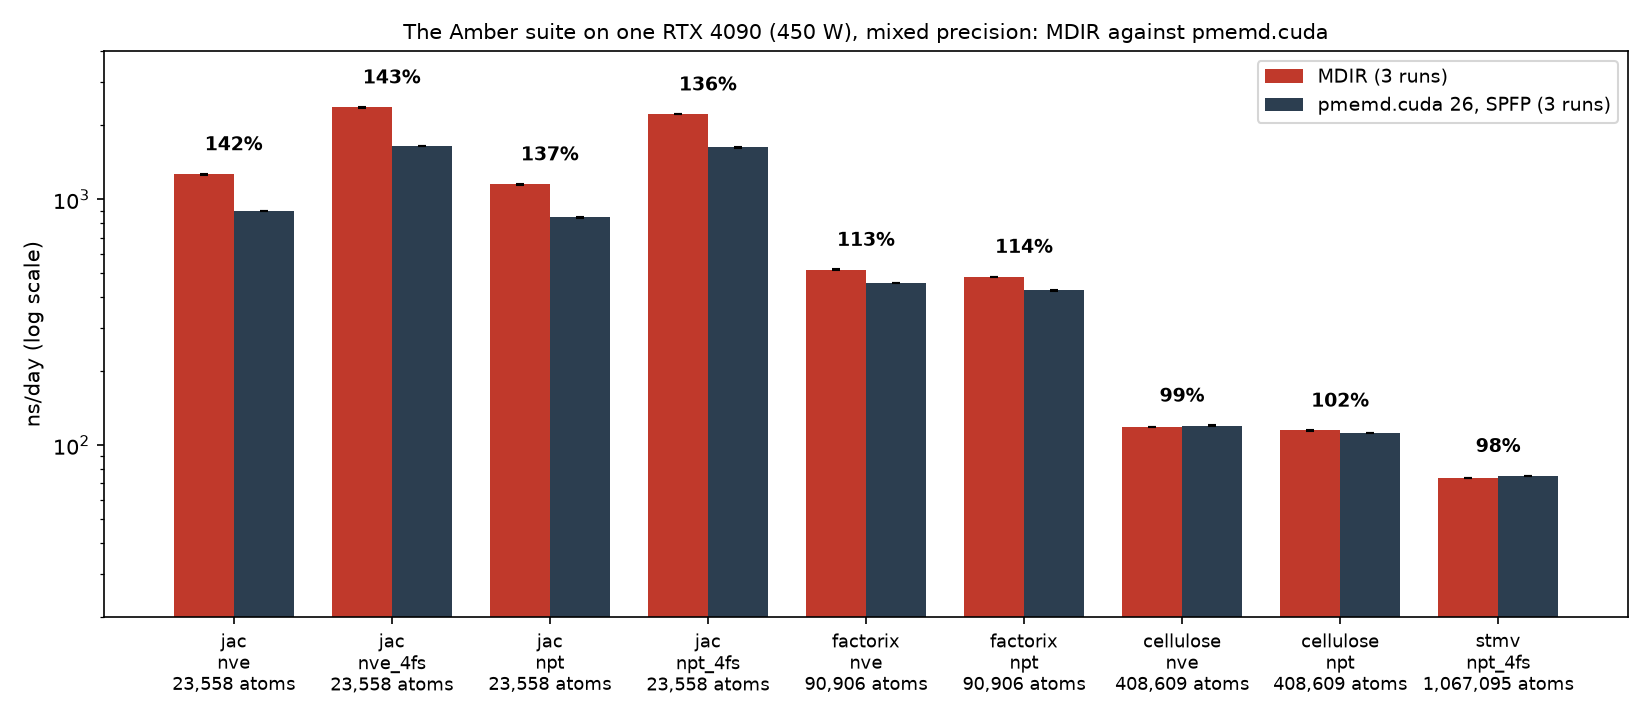
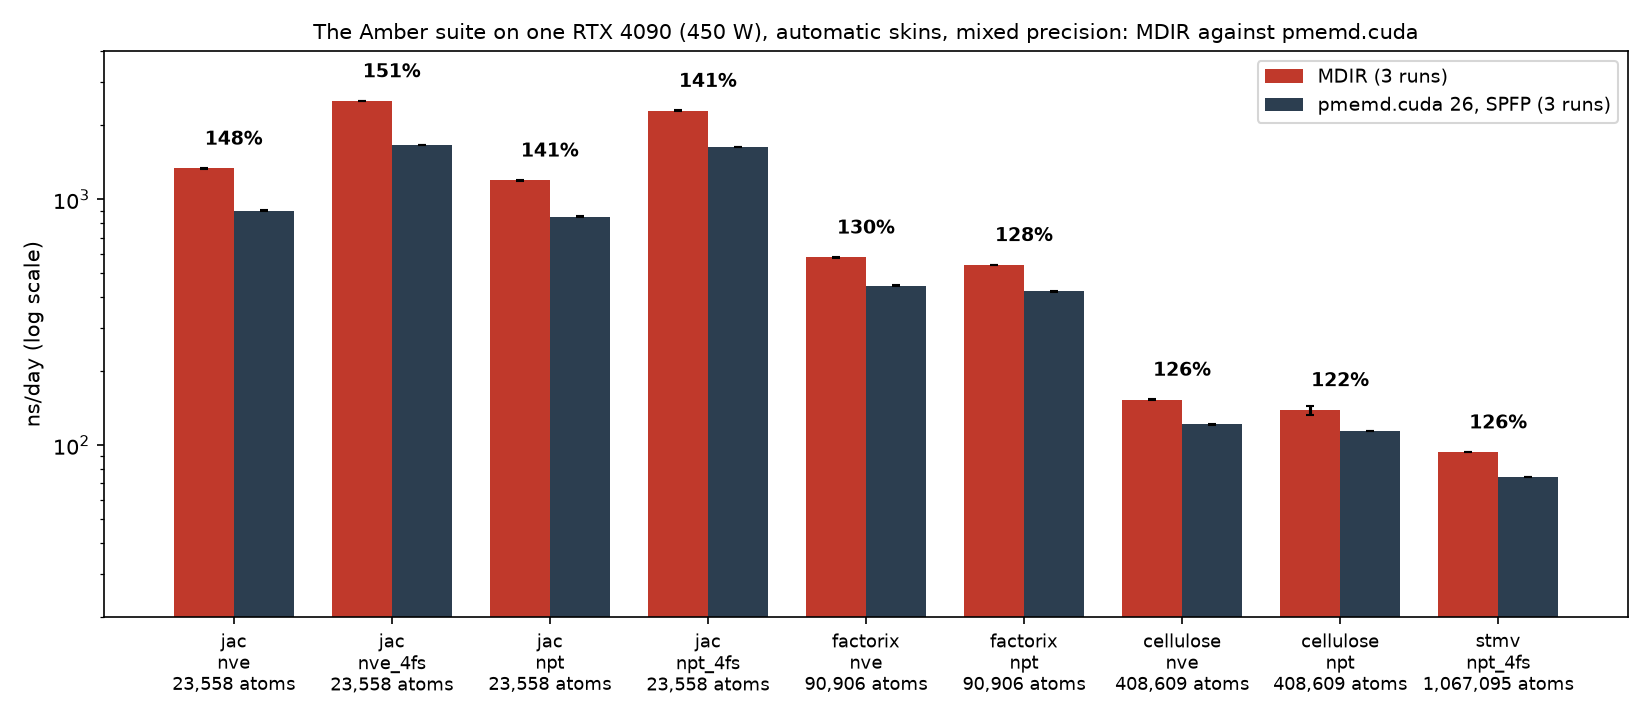
Paper: Table 10.2 and Figure 10.1 on main (D284) with the automatic skins (D281)
MDIR and pmemd.cuda 26 alternated, three repeats, in one job on one
RTX 4090 node; each system searched once with MDIR_SKIN_SEARCH=always
and every timed run took the cached reaches. 122% to 151% of
pmemd.cuda's rate, quoted in the README, the paper's README, and
Section 1. Table 10.3 sets the automatic skins beside those of the
grid of #405; the earlier measurements stay as history.

diff --git a/docs/paper/10-performance.md b/docs/paper/10-performance.md
@@ -6,28 +6,44 @@
 
 | Item | MDIR | pmemd.cuda |
 |---|---|---|
-| Program | `mdir` at D280, built with LLVM and MLIR 23.1.2, kernels loaded as cubins (D214) | pmemd.cuda of Amber 26, SPFP [[LeGrand2013]](references.md#legrand2013), built with CUDA 13 for the RTX 4090 |
-| Device | One NVIDIA RTX 4090 (450 W, driver 595.45.04) of a compute node, in a job of the cluster's scheduler that held the device alone (`gpu-run --idle`); other jobs ran on the node's other GPUs | The same |
+| Program | `mdir` at D284 (commit bfb73f96), built with LLVM and MLIR 23.1.2, kernels loaded as cubins (D214) | pmemd.cuda of Amber 26, SPFP [[LeGrand2013]](references.md#legrand2013), built with CUDA 13 for the RTX 4090 |
+| Device | One NVIDIA RTX 4090 (450 W, driver 595.45.04) of one compute node, on 2026-10-18, in one job of the cluster's scheduler that held the device alone (`gpu-run --idle`); other jobs ran on the node's other GPUs | The same |
 | Inputs | The systems of the Amber 24 GPU benchmark suite (PME), the topologies and restart files of the suite as they are (`prmtop`, `inpcrd`; two topologies are in the format before Amber 7, D133), with the settings of `scripts/benchmarks/amber/bench.py` | The inputs of the suite as they are (`mdin.GPU`, `prmtop`, `inpcrd`) |
 | Model | Cutoff 8 Å; PME with the $\beta$ of pmemd, $\mathrm{erfc}(\beta r_c)/r_c = 10^{-6}$ at constant energy and $10^{-5}$ at constant pressure (0.39467 and 0.34864 Å⁻¹), the grids of pmemd.cuda (64³; 144 × 84 × 80; 256 × 128 × 128; 224 × 224 × 240), order 4, and Amber's influence function (D134); SHAKE on the bonds of hydrogen and rigid water; the correction for the dispersion | The same, by the inputs |
 | Couplings (NPT) | Stochastic velocity rescaling [[Bussi2007]](references.md#bussi2007) and stochastic cell rescaling [[Bernetti2020]](references.md#bernetti2020), every 25 steps, $\tau_T$ = 1 ps, $\tau_P$ = 2 ps | Berendsen's thermostat [[Berendsen1984]](references.md#berendsen1984), $\tau$ = 10 ps; Monte Carlo barostat every 100 steps |
-| Neighbors | Groups of 16 (Section 4.4); dual list, outer reach 11 Å, inner 8.6 Å at 2 fs and 9.2 Å at 4 fs (Section 4.5) | Its own |
+| Neighbors | Neither `neighbor_structure` nor the reaches given: groups of 16 (Section 4.4) with a dual list (Section 4.5), as `AUTO` takes them from 23,000 particles (D261), and the reaches that a search of the run chose and cached for each system (`"AUTO"`, D281; Table 10.2) | Its own: a skin of 2 Å |
 | Precision | Mixed (Table 7.1), `fast_math` | SPFP |
 | Steps | JAC 10,000; FactorIX 4000; Cellulose 1000; STMV 500 | Those of `mdin.GPU`: JAC NVE 100,000, FactorIX NVE 20,000, Cellulose NVE 30,000, STMV 2000, … |
 | Rate | Over the second half of the run, past the compilation, the set-up, and the first build | Over all steps, as pmemd.cuda reports it; its rate over the steps after the first report differs by at most 0.5% |
 | Output | Energies twice; no trajectory | Energies and trajectory every 1000 or 2500 steps, as the inputs ask |
 
 The two programs ran one after the other on the same device, MDIR over
-the whole suite and then pmemd.cuda, three times
+the whole suite and then pmemd.cuda, three times, in one job
 (`scripts/paper/run-suite-repeats.sh`), from a frozen copy of the
 program. The benchmark script watches the device every two seconds
 during each run and marks the rate as no measurement if another process
 used it; no run of the repeats was marked. The ratio of a system is
 taken within each repeat and then averaged; ratios from different nodes
 of the cluster are not mixed, since the same program's rate differs
-between them by up to 3.5% (pmemd.cuda on Cellulose, #405). The table is made by
+between them by up to 6% (pmemd.cuda on Cellulose, 117.3 and 124.5 ns/day
+on two nodes, #405). The table is made by
 `scripts/paper/suite-table.py` and the figure by
 `scripts/paper/plot-suite.py`.
+
+**The skins.** The rates are those a user gets without setting the
+reaches of the lists. A run chooses them by measuring candidates (D281,
+Section 4.5) only where it is long, from $5 \times 10^{12}$ particles times
+steps, about five hours on this device; a shorter run takes the choice
+that an earlier run of the same key cached, else the defaults of D261
+(11 Å and an inner list at 8.6 Å, 9.2 Å at 4 fs). The suite's runs are
+far shorter, so before the repeats each system ran once, untimed, with
+`MDIR_SKIN_SEARCH=always`, which measured up to seven candidates and cached
+the choice; every timed run took its reaches from that cache, and its log
+says so. A run at the threshold affords fewer candidates, those whose
+compilation and steps fit within 2% of its time (three or more, else it
+keeps the defaults and caches nothing), so the cached choice is that of a
+run several times longer. The search took 94 to 274 s a system, and 877 s
+on STMV.
 
 ## 10.2 Rates
 
@@ -36,59 +52,103 @@ over three repeats. "Energy changed by" is the change of the total
 energy (NVE) or of the conserved energy $\tilde H$ (NPT, Section 6.5)
 between the first and the last row of MDIR's log, relative to its value. The counts are the mean
 number of steps between builds of the outer list and between prunings of
-the inner list. The rates, the changes of the energy, the counts, and the
-times of compilation are from the same three repeats, at D280 on an RTX
-4090, with the $\beta$, the grid, and the influence function of pmemd.cuda (Table 10.1).*
+the inner list. "Reaches" are the outer and inner reaches that the search
+chose and every timed run took from the cache. The rates, the changes of
+the energy, the counts, and the times of compilation are from the same
+three repeats, at D284 on one RTX 4090, with the $\beta$, the grid, and
+the influence function of pmemd.cuda (Table 10.1).*
 
-| System | Atoms | MDIR, ns/day | pmemd.cuda, ns/day | MDIR / pmemd.cuda | Energy changed by (MDIR) | Builds, prunings: every | Compiled in |
-|---|---|---|---|---|---|---|---|
-| `jac_nve` | 23,558 | 1269.0 ± 6.5 | 896.1 ± 1.7 | 141.6 ± 0.5% | 6.3e-05 to 1.3e-04 | 16.4, 2.8 | 6 s |
-| `jac_nve_4fs` | 23,558 | 2373.3 ± 9.2 | 1656.1 ± 0.9 | 143.3 ± 0.5% | 3.4e-03 to 3.6e-03 | 10.7, 3.5 | 6 s |
-| `jac_npt` | 23,558 | 1154.1 ± 5.5 | 845.2 ± 1.1 | 136.5 ± 0.5% | 3.8e-04 to 5.3e-04 | 16.4, 2.8 | 12 s |
-| `jac_npt_4fs` | 23,558 | 2221.6 ± 2.8 | 1630.6 ± 3.6 | 136.2 ± 0.3% | 1.1e-03 to 1.4e-03 | 12.9, 4.1 | 12 s |
-| `factorix_nve` | 90,906 | 518.0 ± 1.0 | 456.5 ± 1.2 | 113.5 ± 0.5% | 1.0e-05 to 1.9e-05 | 14.8, 2.7 | 6 s |
-| `factorix_npt` | 90,906 | 485.2 ± 0.2 | 426.6 ± 1.1 | 113.7 ± 0.3% | 2.8e-04 to 3.2e-04 | 14.8, 2.7 | 12 s |
-| `cellulose_nve` | 408,609 | 118.8 ± 0.2 | 120.3 ± 0.1 | 98.8 ± 0.2% | 6.4e-05 to 8.9e-05 | 13.4, 2.2 | 6 s |
-| `cellulose_npt` | 408,609 | 114.8 ± 0.2 | 112.2 ± 0.0 | 102.3 ± 0.2% | 1.5e-04 to 1.7e-04 | 13.4, 2.2 | 11 s |
-| `stmv_npt_4fs` | 1,067,095 | 73.8 ± 0.1 | 75.1 ± 0.2 | 98.3 ± 0.4% | 5.0e-05 to 9.8e-05 | 6.6, 2.1 | 12 s |
+| System | Atoms | MDIR, ns/day | pmemd.cuda, ns/day | MDIR / pmemd.cuda | Energy changed by (MDIR) | Builds, prunings: every | Compiled in | Reaches, Å |
+|---|---|---|---|---|---|---|---|---|
+| `jac_nve` | 23,558 | 1336.7 ± 5.7 | 900.5 ± 1.6 | 148.4 ± 0.6% | 7.7e-05 to 1.1e-04 | 69.0, 3.9 | 6–7 s | 14 / 8.9 |
+| `jac_nve_4fs` | 23,558 | 2514.1 ± 4.7 | 1663.4 ± 1.2 | 151.1 ± 0.4% | 3.3e-03 to 3.4e-03 | 31.0, 2.8 | 6–7 s | 14 / 8.8 |
+| `jac_npt` | 23,558 | 1196.1 ± 3.5 | 850.4 ± 4.1 | 140.6 ± 0.5% | 3.6e-04 to 5.1e-04 | 57.0, 4.2 | 12–13 s | 13.5 / 9 |
+| `jac_npt_4fs` | 23,558 | 2297.2 ± 11.7 | 1632.0 ± 2.7 | 140.8 ± 0.9% | 8.1e-04 to 1.1e-03 | 28.4, 2.8 | 12–13 s | 13 / 8.7 |
+| `factorix_nve` | 90,906 | 581.1 ± 1.3 | 446.4 ± 0.4 | 130.2 ± 0.3% | 5.1e-06 to 1.4e-05 | 14.8, 2.7 | 6 s | 11 / 8.6 |
+| `factorix_npt` | 90,906 | 541.7 ± 1.5 | 422.2 ± 1.2 | 128.3 ± 0.2% | 2.9e-04 to 3.0e-04 | 14.8, 2.7 | 12 s | 11 / 8.6 |
+| `cellulose_nve` | 408,609 | 153.4 ± 0.2 | 121.6 ± 0.2 | 126.2 ± 0.3% | 5.1e-05 to 5.2e-05 | 17.3, 1.9 | 6 s | 11.5 / 8.45 |
+| `cellulose_npt` | 408,609 | 139.2 ± 5.9 | 113.9 ± 0.1 | 122.2 ± 5.2% | 1.6e-04 to 1.8e-04 | 13.5, 2.2 | 11 s | 11 / 8.6 |
+| `stmv_npt_4fs` | 1,067,095 | 93.7 ± 0.1 | 74.3 ± 0.2 | 126.0 ± 0.4% | 2.2e-05 to 9.2e-05 | 13.5, 1.9 | 12–13 s | 12.5 / 8.8 |
 
 ![Rates of MDIR and pmemd.cuda over the Amber suite](figures/suite.png)
 
 *Figure 10.1. The rates of Table 10.2 on a logarithmic scale, with the
 ratio of the means above each pair.*
 
-On this device MDIR's rate is 136% to 143% of pmemd.cuda's on JAC, 114%
-on Factor IX, 99% and 102% on Cellulose at constant energy and pressure,
-and 98% on STMV. The ratio falls with the size of the system:
+On this device MDIR's rate is 141% to 151% of pmemd.cuda's on JAC, 128%
+and 130% on Factor IX, 126% and 122% on Cellulose at constant energy and
+pressure, and 126% on STMV. The 122% of Cellulose at constant pressure
+holds one slow repeat: its second run took 1.305 ms a step over the
+second half against 1.212 ms in the first and the third, with the same
+reaches and the same counts of builds and prunings (76 and 454 against 74
+to 75 and 451 to 456), and no other process on the device; the other two
+repeats give 125.3%. The ratio falls with the size of the system:
 
-- **JAC** (23,558 atoms; a step of about 136 µs at 2 fs). A step of this
+- **JAC** (23,558 atoms; a step of about 129 µs at 2 fs). A step of this
   size has few warps of work per kernel and many kernels, so what the
   host and the launches cost matters as much as the arithmetic. The
   integration kernel (Section 8.2) does in one launch what took three,
   the flags of the tests reach the host without waiting for the stream
-  (Section 8.3), and the dual list keeps an inner list of reach 8.6 Å,
-  pruned every 2.8 steps, under an outer list of 11 Å built every 16, so
-  the loop over pairs reads the pairs within 8.6 Å rather than within
-  the 10 Å of one list (Section 4.5).
+  (Section 8.3), and the dual list keeps an inner list of reach 8.9 Å,
+  pruned every 3.9 steps, under an outer list of 14 Å built every 69, so
+  the loop over pairs reads the pairs within 8.9 Å and the builds, which
+  cost a fixed time of launches each, are rare (Section 4.5). The search
+  chose a long outer skin on all four JAC inputs, 2.3% to 3.8% faster
+  than the defaults in its own measurement.
+- **Factor IX** (90,906 atoms). No candidate gained beyond the noise of
+  the search (0.5% and 0.6%, within 1.7% and 2.3%), and both runs kept
+  the defaults, 11 / 8.6 Å.
 - **Cellulose** (408,609 atoms) and **STMV** at 4 fs (1,067,095 atoms).
   The device is busy nearly the whole step (Table 8.2, measured on an
   RTX 3090), and the loop over pairs and PME take most of it. The rate
   rests on the arithmetic and the memory traffic of those kernels: each
-  pair once, tables of the radial functions (Section 7.2), the bricks of
-  the spreading (Section 5.3). STMV builds its outer list every 6.6 steps
-  and prunes every 2.1. The settings of the lists (Table 10.1) were
-  chosen on an RTX 3090 and are the same for every system; whether other
-  settings, or the kernels themselves, account for the 1 to 2% on these
-  two systems is not separated by these measurements.
+  pair once, tables of the radial functions (Section 7.2), the tiles of
+  the spreading (Section 5.3), and, from 4096 groups, the pruning inside
+  the loop over pairs (D284, Section 4.5). The search chose 11.5 / 8.45 Å
+  for Cellulose at constant energy (1.7% faster than the defaults) and
+  12.5 / 8.8 Å for STMV (5.7%); at constant pressure on Cellulose the
+  fastest candidate, 11.5 / 8.65 Å, gained 1.0%, within the noise of
+  1.6%, and the run kept the defaults.
 
-**An earlier measurement.** At D134 on an RTX 3090 capped at 300 W, with
-the same inputs and settings, the ratios were 131.5% on JAC at constant
+**With the skins of a grid.** On the same commit, on another RTX 4090
+node, the skins of each system taken from the grid of #406 gave the rates
+of Table 10.3 (#405). With the automatic skins MDIR's rate is 0.5% to 2.4%
+higher on eight systems and 1.5% lower on Cellulose at constant pressure
+(142.6 ns/day in its two regular repeats; 3.8% with the slow one), where
+the search kept the defaults; MDIR's own rate differs between RTX 4090
+nodes by about 1% (#405), so these differences are of the order of the
+node. The ratios differ by up to 4 points, and by 9 on Cellulose at
+constant pressure, mostly because pmemd.cuda's rate differs between the
+two nodes (Cellulose NVE 117.3 there against 121.6 ns/day here), which is
+why the ratios of Table 10.2 come from one job on one node.
+
+*Table 10.3. MDIR with the skins of the grid of #406 (another RTX 4090
+node, same commit, three repeats, #405) against the automatic skins of
+Table 10.2; ns/day, and the ratio to pmemd.cuda in the same job.*
+
+| System | Grid's skins, Å | MDIR, grid | MDIR, automatic | / pmemd.cuda, grid | / pmemd.cuda, automatic |
+|---|---|---|---|---|---|
+| `jac_nve` | 14 / 8.8 | 1312.8 | 1336.7 | 147.5% | 148.4% |
+| `jac_nve_4fs` | 14 / 9.2 | 2455.1 | 2514.1 | 149.4% | 151.1% |
+| `jac_npt` | 14 / 8.8 | 1173.7 | 1196.1 | 139.5% | 140.6% |
+| `jac_npt_4fs` | 14 / 9.2 | 2277.7 | 2297.2 | 140.7% | 140.8% |
+| `factorix_nve` | 12.5 / 8.6 | 574.5 | 581.1 | 126.8% | 130.2% |
+| `factorix_npt` | 12.5 / 8.6 | 535.4 | 541.7 | 126.0% | 128.3% |
+| `cellulose_nve` | 11.5 / 8.45 | 152.6 | 153.4 | 130.1% | 126.2% |
+| `cellulose_npt` | 11.5 / 8.45 | 144.7 | 139.2 | 131.4% | 122.2% |
+| `stmv_npt_4fs` | 12.5 / 8.9 | 92.4 | 93.7 | 124.2% | 126.0% |
+
+**Earlier measurements.** At D280, on an RTX 4090 with the skins fixed at
+3 Å and 0.6 Å at 2 fs for every system, the ratios were 136% to 143% on
+JAC, 114% on Factor IX, 99% and 102% on Cellulose, and 98% on STMV; the
+tiles of the spreading (D282), the sums of the tuple kernel by blocks
+(D283), the pruning in the loop over pairs (D284), and the skins chosen
+for each system (D281) are between that measurement and this one. At
+D134 on an RTX 3090 capped at 300 W, with the same inputs and the fixed
+skins, the ratios were 131.5% on JAC at constant
 energy, 110.0% on Factor IX, 104.4% and 105.3% on Cellulose, and 111.0% on
 STMV, which completed the first milestone's target of at least
-pmemd.cuda's rate on every system of the suite (D114). From that
-measurement to this one, on the newer device and with MDIR's changes up to
-D280, pmemd.cuda's rate grew by a factor of 1.4 on JAC to 2.0 on STMV, and
-MDIR's by 1.6 to 1.9: the large systems gained more with pmemd.cuda.
+pmemd.cuda's rate on every system of the suite (D114).
 
 ## 10.3 Energy in the measured runs
 

diff --git a/docs/paper/README.md b/docs/paper/README.md
@@ -17,7 +17,8 @@ role; and lower the result to OpenMP or to NVIDIA GPUs, specialized to
 the topology and the parameters at hand. On one RTX 4090 in mixed
 precision, MDIR runs the systems of the Amber GPU benchmark suite, from
 23,558 to 1,067,095 atoms, at constant energy and at constant pressure,
-at 98% to 143% of the rate of pmemd.cuda 26 on the same device (104% to
+at 122% to 151% of the rate of pmemd.cuda 26 on the same device, with
+the skins of the neighbor lists that MDIR chooses itself (104% to
 132% on an RTX 3090 when the first milestone was completed); on
 ubiquitin in OPC with a cutoff of 9 Å it reaches 66% to 72% of the rate
 of GROMACS 2026.3, whose nonbonded kernel takes as long as MDIR's loop
@@ -67,7 +68,7 @@ by expressions, implicit solvent, and what to do when something fails.
 | What | How |
 |---|---|
 | The references | `scripts/paper/build-references.py` links the citations and writes `references.md`; `scripts/paper/verify-references.py docs/paper/references.md` checks every DOI against Crossref and DataCite |
-| Table 10.2 and Figure 10.1 | `scripts/paper/run-suite-repeats.sh MDIR PMEMD LOGS 3`, then `scripts/paper/suite-table.py LOGS` and `scripts/paper/plot-suite.py LOGS figures/suite.png`, with the suite prepared by `scripts/benchmarks/amber/bench.py prepare` |
+| Tables 10.2 and 10.3 and Figure 10.1 | `scripts/paper/run-suite-repeats.sh MDIR PMEMD LOGS 3` (a search of the skins for each system first, cached in `LOGS/skins`, D281), then `scripts/paper/suite-table.py LOGS` and `scripts/paper/plot-suite.py LOGS figures/suite.png`, with the suite prepared by `scripts/benchmarks/amber/bench.py prepare` |
 | Figure 7.1 | `scripts/paper/plot-energy.py LOGS figures/energy-jac.png`, from the logs of the runs of D112 |
 | Appendix A | `scripts/paper/check-appendix.sh MDIR` checks that its example is what `mdir template amber` prints |
 | The PDF | `scripts/paper/build-pdf.sh OUT` writes each section to LaTeX with pandoc and builds `OUT/main.pdf` with tectonic, from the master file `tex/main.tex`; the two programs are on the path or named by `PANDOC` and `TECTONIC` ([environment.md](../environment.md#scripts)). The title page shows the compilation timestamp in UTC, refreshed on every build. |

diff --git a/docs/paper/C-usage.md b/docs/paper/C-usage.md
@@ -295,7 +295,7 @@ water assume water named `WAT`; other systems adapt them.
 |---|---|---|
 | `target` | `CPU` (with `threads`), `GPU` | The CPU runs anywhere, with OpenMP threads; the measurements of Section 10 are on a device |
 | `precision` | `MIXED`, `DOUBLE`, `SINGLE` | `MIXED`, the mode of production (Section 7); `DOUBLE` to compare with references and to check a result; `SINGLE` keeps the state in f32 as well (Table 7.1) |
-| `neighbor_structure` | `MATRIX`, `GROUPS` | `GROUPS`, with a dual list (`pruned_distance` in `[energy]`), is the configuration of the measurements of Section 10 |
+| `neighbor_structure` | `AUTO`, `MATRIX`, `GROUPS` | `AUTO`, the default, takes `GROUPS` with a dual list on a device from 23,000 particles (D261), as in the measurements of Section 10 |
 | `deterministic` | `false`, `true` | `true` for the same bits from run to run on one binary and device (D84); not with `GROUPS` on a device. The CPU gives the same bits in either mode, for any `threads` |
 
 The production stage of C.3 on a device, with the groups and a dual list
@@ -313,8 +313,10 @@ precision          = "MIXED"
 neighbor_structure = "GROUPS"
 ```
 
-Section 10 measured the suite with a cutoff of 8 Å, an outer reach of
-11 Å, and an inner one of 8.6 Å at 2 fs.
+Section 10 measured the suite with a cutoff of 8 Å and neither the
+structure nor the reaches given: the groups with a dual list, and the
+reaches that the search of a long run chose and cached for each system
+(`"AUTO"`, D281, Section 4.5).
 
 ## C.5 Runs on a cluster
 

diff --git a/docs/paper/13-limitations.md b/docs/paper/13-limitations.md
@@ -83,12 +83,16 @@ the spreading of PME has (D70), would close the gap.
   of the tuples renumbered on the device, is planned with the domain
   decomposition, which needs it anyway.
 
-**Measurements.** The rates of Section 10 are from one RTX 3090 capped at
-300 W in a node whose other GPUs ran other users' jobs; the device of the
-measurements was not shared (the benchmark script checks), but the node's
-power and host were. The cap matters: under it, MDIR's kernels ran at a
-lower clock than pmemd.cuda's (about 1590 against 1695 MHz on Cellulose),
-so a kernel that does the same work with less power gains speed.
+**Measurements.** The rates of Section 10 are from one RTX 4090 of a
+compute node whose other GPUs ran other users' jobs; the device of the
+measurements was not shared (the scheduler gives it to one job, and the
+benchmark script checks), but the node's power and host were. The same
+program's rate differs between nodes by a few percent (pmemd.cuda on
+Cellulose by 6%, #405), so a ratio is taken within one job on one node.
+The earlier rates, from one RTX 3090 capped at 300 W, show that a cap
+matters: under it, MDIR's kernels ran at a lower clock than pmemd.cuda's
+(about 1590 against 1695 MHz on Cellulose), so a kernel that does the
+same work with less power gains speed.
 
 **Next steps.** The white paper closes the first milestone; the roadmap
 (`docs/roadmap.md`) orders what follows into milestones: the Python API

diff --git a/CHANGELOG.md b/CHANGELOG.md
@@ -544,6 +544,18 @@ format, or the outputs; every such change is listed under **Changed** or
 
 ### Changed
 
+- **The white paper's comparison with pmemd.cuda is measured again on
+  `main` (D284) with the skins that MDIR chooses (D281)** (#437; Section
+  10, Tables 10.2 and 10.3, Figure 10.1, and the range quoted in the
+  README, the paper's README, and Section 1): 122% to 151% of pmemd.cuda
+  26's rate on one RTX 4090, from 98% to 143% at D280 with fixed skins.
+  `scripts/benchmarks/amber/bench.py run mdir --skin AUTO` writes the
+  reaches as `"AUTO"` (`--prune-skin AUTO` the inner one alone), and
+  `scripts/paper/run-suite-repeats.sh` runs one search of the skins for
+  each system with `MDIR_SKIN_SEARCH=always` before the timed repeats,
+  which take the cached choice; `scripts/paper/suite-table.py` adds the
+  reaches and their source. No decision: a script option.
+
 - **PME on a device spreads through tiles of the memory of a block**
   (D282, #336,
   [docs/pme-m1.md §3.3](docs/pme-m1.md#33-spreading-through-tiles)): the

diff --git a/README.md b/README.md
@@ -45,8 +45,9 @@ correction for the dispersion or CHARMM's force switch, particle mesh
 Ewald, SHAKE and SETTLE,
 virtual sites, restraints, stochastic velocity rescaling or Langevin dynamics, and stochastic
 cell rescaling, in single, mixed, or double precision. On an RTX 4090 it
-runs the systems of the Amber GPU benchmark suite at 98% to 143% of the
-rate of pmemd.cuda (104% to 132% on an RTX 3090 when the first milestone
+runs the systems of the Amber GPU benchmark suite at 122% to 151% of the
+rate of pmemd.cuda, with the skins of the neighbor lists that it chooses
+itself (104% to 132% on an RTX 3090 when the first milestone
 was completed). A driver reads a control file and writes a log, a
 trajectory, and checkpoints, from which a run continues exactly. The white
 paper of the first milestone is in [docs/paper/](docs/paper/README.md).

diff --git a/docs/paper/01-introduction.md b/docs/paper/01-introduction.md
@@ -61,8 +61,9 @@ paper describes the system that reaches it.
 5. **Results** (Sections 9 and 10): agreement of the energy terms and of
    the force on every particle with sander and GROMACS, and of the terms
    with CHARMM and, in triclinic cells, with all three; conservation of energy over 2 ns of JAC better than
-   that of pmemd.cuda on the same input; on an RTX 4090, a rate between 98%
-   and 143% of pmemd.cuda's over the Amber suite, and between 104% and
+   that of pmemd.cuda on the same input; on an RTX 4090, a rate between 122%
+   and 151% of pmemd.cuda's over the Amber suite, with the skins that
+   MDIR chooses, and between 104% and
    132% on every system on an RTX 3090 when the first milestone was
    completed; and on
    ubiquitin in OPC, 66% to 72% of the rate of GROMACS, with the loop over

diff --git a/docs/paper/04-neighbors.md b/docs/paper/04-neighbors.md
@@ -628,8 +628,10 @@ within 2% of a list built with 9 Å.
 | Cellulose | 408,609 | 59.7 | 62.4 | 12/8.6 | 22.5 | 2.2 |
 | STMV, 4 fs | 1,067,095 | 37.8 | 39.9 | 11/9.0 | 6.6 | 1.8 |
 
-The settings of the suite (Section 10) are an outer skin of 3 Å and an
-inner skin of 0.6 Å at 2 fs, in proportion to the step.
+The default of D261, which a run takes where it does not choose (below),
+is an outer skin of 3 Å and an inner skin of 0.6 Å at 2 fs, in proportion
+to the step; the measurements of Section 10 take the skins that the
+choice below made for each system.
 
 **The choice of the skins** (D281). Because the test of validity
 is exact, every pair of skins $(s, s_\text{in})$ gives the same pairs
